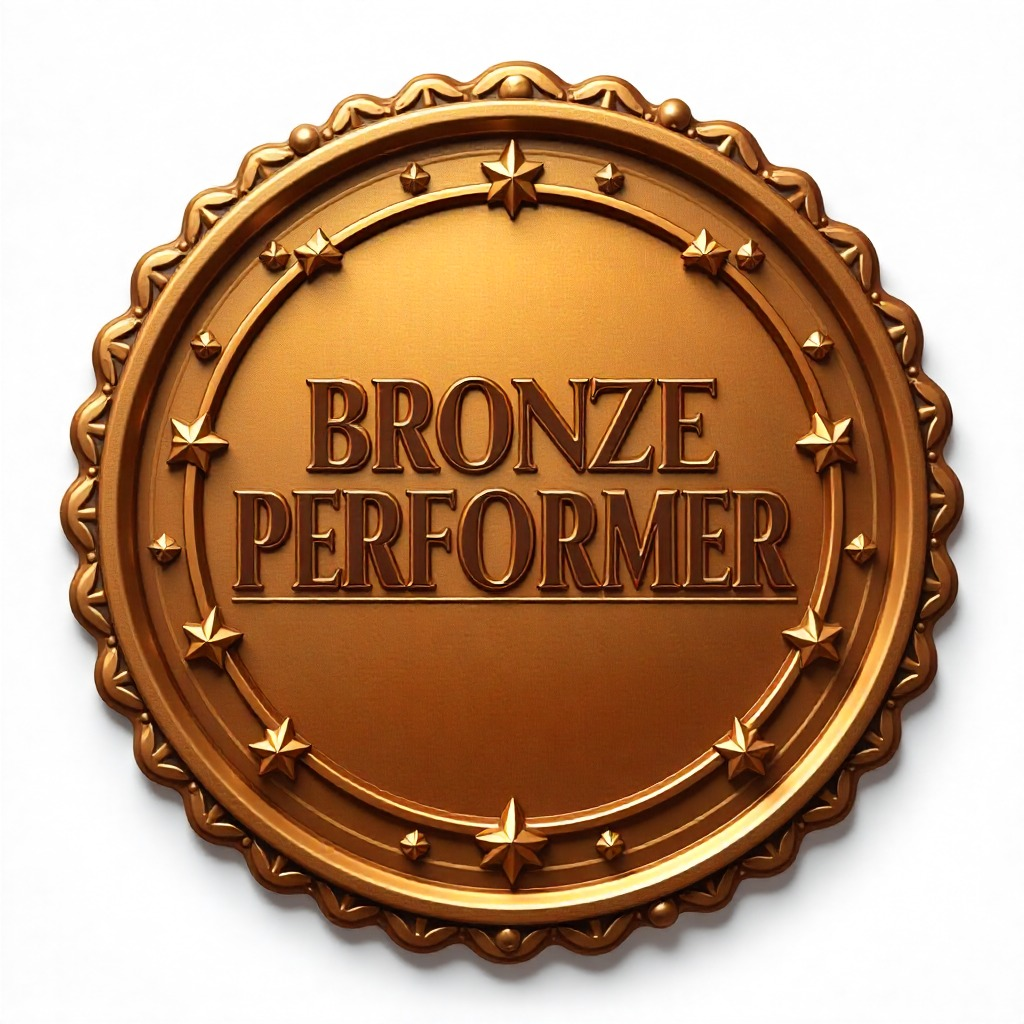
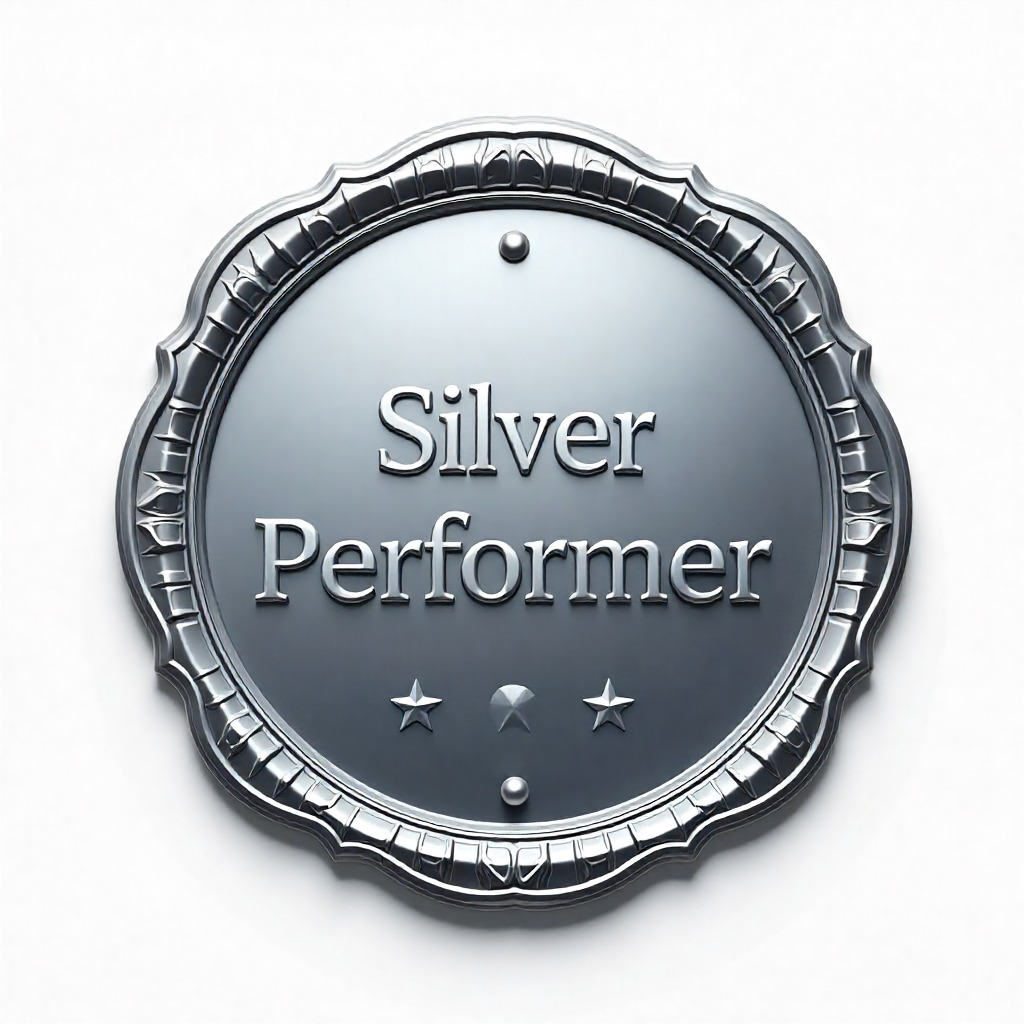
fixes

diff --git a/resources/views/admin/noteable_performance.blade.php b/resources/views/admin/noteable_performance.blade.php
@@ -89,7 +89,6 @@
                   <td><span class="badge bg-label-warning me-1">ME</span></td>
                   <td>
                     <div class="avatar avatar-xl">
-                      <img src="{{ asset('admin/assets/img/avatars/award1.png') }}" alt="Avatar" class="rounded-circle">
                     </div>
                   </td>
                   <td> <small class="text-break">
@@ -120,9 +119,7 @@
                   </td>
                   <td><span class="badge bg-label-success me-1">EE</span></td>
                   <td>
-                    <div class="avatar avatar-xl">
-                      <img src="{{ asset('admin/assets/img/avatars/award3.png') }}" alt="Avatar" class="rounded-circle">
-                    </div>
+                    <div class="avatar avatar-xl"></div>
                   </td>
                   <td> <small class="text-break">
                       You’re going beyond what’s asked of you.Keep shining — your impact inspires others.
@@ -151,9 +148,7 @@
                   </td>
                   <td><span class="badge bg-label-success me-1">EE</span></td>
                   <td>
-                    <div class="avatar avatar-xl">
-                      <img src="{{ asset('admin/assets/img/avatars/award3.png') }}" alt="Avatar" class="rounded-circle">
-                    </div>
+                    <div class="avatar avatar-xl"></div>
                   </td>
                   <td> <small class="text-break">You’re going beyond what’s asked of you.Keep shining — your impact
                       inspires others.</small>
@@ -183,7 +178,8 @@
                   <td><span class="badge bg-label-primary me-1">OS</span></td>
                   <td>
                     <div class="avatar avatar-xl">
-                      <img src="{{ asset('admin/assets/img/avatars/award2.png') }}" alt="Avatar" class="rounded-circle">
+                      <img src="{{ asset('admin/assets/img/avatars/gold-performer.jpeg') }}" alt="Avatar"
+                        class="rounded-circle">
                     </div>
                   </td>
                   <td> <small class="text-break">
@@ -215,7 +211,8 @@
                   <td><span class="badge bg-label-primary me-1">OS</span></td>
                   <td>
                     <div class="avatar avatar-xl">
-                      <img src="{{ asset('admin/assets/img/avatars/award2.png') }}" alt="Avatar" class="rounded-circle">
+                      <img src="{{ asset('admin/assets/img/avatars/silver-performer.jpeg') }}" alt="Avatar"
+                        class="rounded-circle">
                     </div>
                   </td>
                   <td> <small class="text-break">
